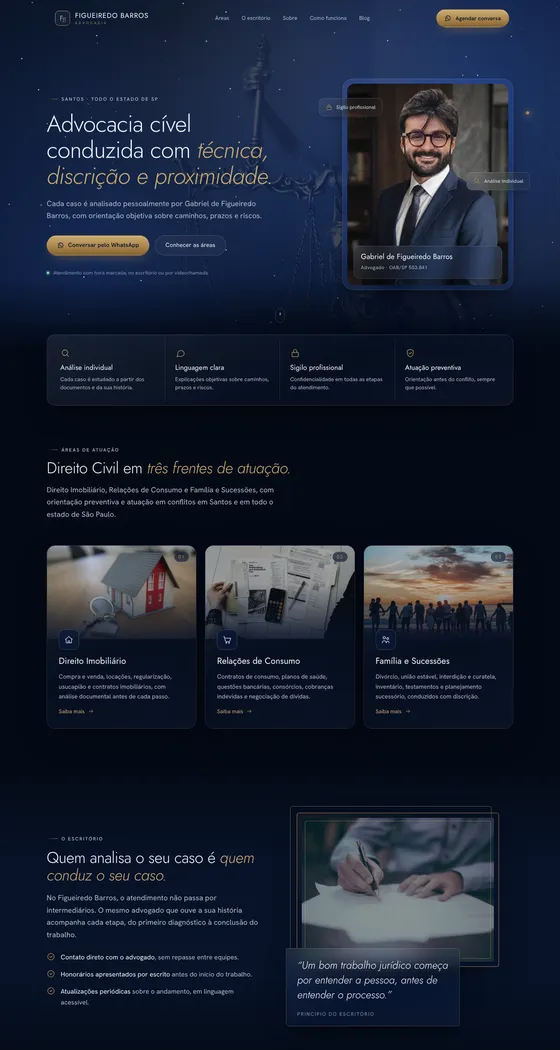
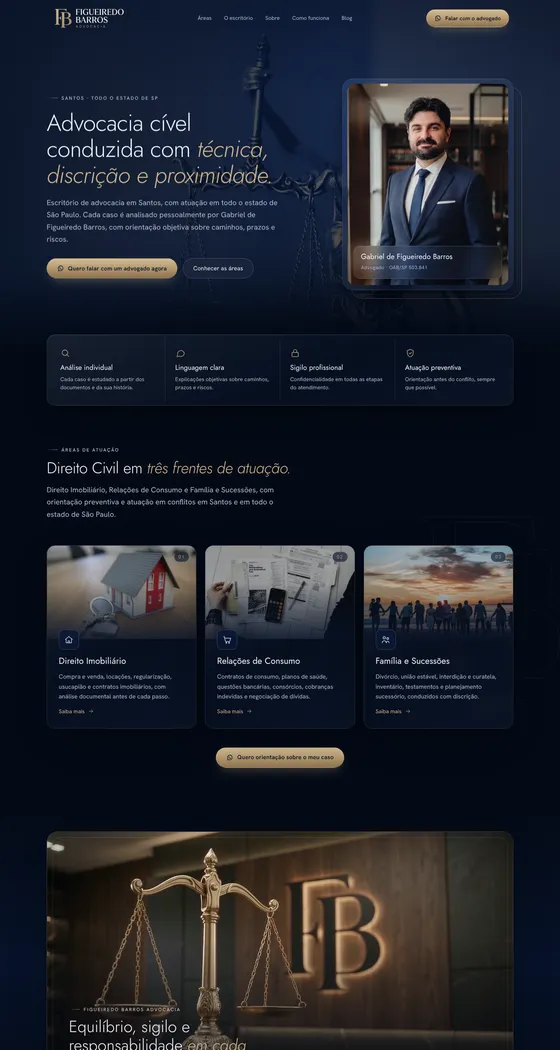
Portfólio: capa nova do Figueiredo Barros
Claude-Session: https://claude.ai/code/session_01KHwX47PnUnpH9iLpKtAAzS

diff --git a/index.html b/index.html
@@ -85,7 +85,7 @@
     <div class="hd pfh rv"><div><span class="eb">Portfólio</span><h2 id="t-pf">Sites e landing pages <em class="g">no ar</em></h2><p>Landing pages e sites que a CProject Lab desenvolveu para negócios de segmentos diferentes. Arraste para ver mais projetos e abra cada site para navegar.</p></div>
       <div class="pfnav"><button type="button" class="pfb" data-dir="-1" aria-label="Projeto anterior"><svg viewBox="0 0 24 24" fill="none" stroke="currentColor" stroke-width="2" stroke-linecap="round" aria-hidden="true"><path d="M19 12H5M11 6l-6 6 6 6"/></svg></button><button type="button" class="pfb" data-dir="1" aria-label="Próximo projeto"><svg viewBox="0 0 24 24" fill="none" stroke="currentColor" stroke-width="2" stroke-linecap="round" aria-hidden="true"><path d="M5 12h14M13 6l6 6-6 6"/></svg></button></div></div>
   </div>
-  <div class="pfw rv"><ul class="pft" id="pft" aria-label="Projetos do portfólio"><li class="pf"><a href="https://gelomac.com.br/" target="_blank" rel="noopener" aria-label="Gelomac: abrir o site em nova aba"><div class="shot"><div class="bar"><i></i><i></i><i></i><span>gelomac.com.br</span></div><div class="vp"><img src="/assets/portfolio/pf-gelomac-560.webp" srcset="/assets/portfolio/pf-gelomac-560.webp 560w, /assets/portfolio/pf-gelomac.webp 960w" sizes="(max-width:640px) 84vw, 560px" width="560" height="1050" loading="lazy" decoding="async" alt="Página inicial do site Gelomac"></div></div><div class="pfm"><div><h3>Gelomac</h3><p>Climatização comercial e industrial · Santos, SP</p></div><span class="go" aria-hidden="true">↗</span></div><div class="tags"><span>Site com páginas de serviço</span><span>SEO local</span><span>Orçamento pelo WhatsApp</span></div></a></li><li class="pf"><a href="https://drc-compressores.vercel.app/" target="_blank" rel="noopener" aria-label="DRC Compressores: abrir o site em nova aba"><div class="shot"><div class="bar"><i></i><i></i><i></i><span>drc-compressores.vercel.app</span></div><div class="vp"><img src="/assets/portfolio/pf-drc-560.webp" srcset="/assets/portfolio/pf-drc-560.webp 560w, /assets/portfolio/pf-drc.webp 960w" sizes="(max-width:640px) 84vw, 560px" width="560" height="1050" loading="lazy" decoding="async" alt="Página inicial do site DRC Compressores"></div></div><div class="pfm"><div><h3>DRC Compressores</h3><p>Recondicionamento de compressores · Santos, SP</p></div><span class="go" aria-hidden="true">↗</span></div><div class="tags"><span>Landing page</span><span>Catálogo de marcas</span><span>WhatsApp</span></div></a></li><li class="pf"><a href="https://figueiredo-barros.vercel.app/" target="_blank" rel="noopener" aria-label="Figueiredo Barros Advocacia: abrir o site em nova aba"><div class="shot"><div class="bar"><i></i><i></i><i></i><span>figueiredo-barros.vercel.app</span></div><div class="vp"><img src="/assets/portfolio/pf-figueiredo-560.webp" srcset="/assets/portfolio/pf-figueiredo-560.webp 560w, /assets/portfolio/pf-figueiredo.webp 960w" sizes="(max-width:640px) 84vw, 560px" width="560" height="1050" loading="lazy" decoding="async" alt="Página inicial do site Figueiredo Barros Advocacia"></div></div><div class="pfm"><div><h3>Figueiredo Barros Advocacia</h3><p>Advocacia · Santos e estado de SP</p></div><span class="go" aria-hidden="true">↗</span></div><div class="tags"><span>Site institucional</span><span>Áreas de atuação</span><span>Contato</span></div></a></li><li class="pf"><a href="https://bonomi-almeida.vercel.app/" target="_blank" rel="noopener" aria-label="Bonomi Almeida: abrir o site em nova aba"><div class="shot"><div class="bar"><i></i><i></i><i></i><span>bonomi-almeida.vercel.app</span></div><div class="vp"><img src="/assets/portfolio/pf-bonomi-560.webp" srcset="/assets/portfolio/pf-bonomi-560.webp 560w, /assets/portfolio/pf-bonomi.webp 960w" sizes="(max-width:640px) 84vw, 560px" width="560" height="1050" loading="lazy" decoding="async" alt="Página inicial do site Bonomi Almeida"></div></div><div class="pfm"><div><h3>Bonomi Almeida</h3><p>Advocacia · Estado de São Paulo</p></div><span class="go" aria-hidden="true">↗</span></div><div class="tags"><span>Site institucional</span><span>Áreas de atuação</span><span>Contato</span></div></a></li></ul></div>
+  <div class="pfw rv"><ul class="pft" id="pft" aria-label="Projetos do portfólio"><li class="pf"><a href="https://gelomac.com.br/" target="_blank" rel="noopener" aria-label="Gelomac: abrir o site em nova aba"><div class="shot"><div class="bar"><i></i><i></i><i></i><span>gelomac.com.br</span></div><div class="vp"><img src="/assets/portfolio/pf-gelomac-560.webp" srcset="/assets/portfolio/pf-gelomac-560.webp 560w, /assets/portfolio/pf-gelomac.webp 960w" sizes="(max-width:640px) 84vw, 560px" width="560" height="1050" loading="lazy" decoding="async" alt="Página inicial do site Gelomac"></div></div><div class="pfm"><div><h3>Gelomac</h3><p>Climatização comercial e industrial · Santos, SP</p></div><span class="go" aria-hidden="true">↗</span></div><div class="tags"><span>Site com páginas de serviço</span><span>SEO local</span><span>Orçamento pelo WhatsApp</span></div></a></li><li class="pf"><a href="https://drc-compressores.vercel.app/" target="_blank" rel="noopener" aria-label="DRC Compressores: abrir o site em nova aba"><div class="shot"><div class="bar"><i></i><i></i><i></i><span>drc-compressores.vercel.app</span></div><div class="vp"><img src="/assets/portfolio/pf-drc-560.webp" srcset="/assets/portfolio/pf-drc-560.webp 560w, /assets/portfolio/pf-drc.webp 960w" sizes="(max-width:640px) 84vw, 560px" width="560" height="1050" loading="lazy" decoding="async" alt="Página inicial do site DRC Compressores"></div></div><div class="pfm"><div><h3>DRC Compressores</h3><p>Recondicionamento de compressores · Santos, SP</p></div><span class="go" aria-hidden="true">↗</span></div><div class="tags"><span>Landing page</span><span>Catálogo de marcas</span><span>WhatsApp</span></div></a></li><li class="pf"><a href="https://figueiredo-barros.vercel.app/" target="_blank" rel="noopener" aria-label="Figueiredo Barros Advocacia: abrir o site em nova aba"><div class="shot"><div class="bar"><i></i><i></i><i></i><span>figueiredo-barros.vercel.app</span></div><div class="vp"><img src="/assets/portfolio/pf-figueiredo-560.webp?v=2" srcset="/assets/portfolio/pf-figueiredo-560.webp?v=2 560w, /assets/portfolio/pf-figueiredo.webp?v=2 960w" sizes="(max-width:640px) 84vw, 560px" width="560" height="1050" loading="lazy" decoding="async" alt="Página inicial do site Figueiredo Barros Advocacia"></div></div><div class="pfm"><div><h3>Figueiredo Barros Advocacia</h3><p>Advocacia · Santos e estado de SP</p></div><span class="go" aria-hidden="true">↗</span></div><div class="tags"><span>Site institucional</span><span>Áreas de atuação</span><span>Contato</span></div></a></li><li class="pf"><a href="https://bonomi-almeida.vercel.app/" target="_blank" rel="noopener" aria-label="Bonomi Almeida: abrir o site em nova aba"><div class="shot"><div class="bar"><i></i><i></i><i></i><span>bonomi-almeida.vercel.app</span></div><div class="vp"><img src="/assets/portfolio/pf-bonomi-560.webp" srcset="/assets/portfolio/pf-bonomi-560.webp 560w, /assets/portfolio/pf-bonomi.webp 960w" sizes="(max-width:640px) 84vw, 560px" width="560" height="1050" loading="lazy" decoding="async" alt="Página inicial do site Bonomi Almeida"></div></div><div class="pfm"><div><h3>Bonomi Almeida</h3><p>Advocacia · Estado de São Paulo</p></div><span class="go" aria-hidden="true">↗</span></div><div class="tags"><span>Site institucional</span><span>Áreas de atuação</span><span>Contato</span></div></a></li></ul></div>
   <div class="in"><div class="pfp" aria-hidden="true"><i id="pfbar"></i></div></div>
 </section>
 

diff --git a/sites-e-landing-pages/index.html b/sites-e-landing-pages/index.html
@@ -56,7 +56,7 @@
     <div class="hd pfh rv"><div><span class="eb">Portfólio</span><h2 id="t-pf">Sites e landing pages <em class="g">no ar</em></h2><p>Landing pages e sites que a CProject Lab desenvolveu para negócios de segmentos diferentes. Arraste para ver mais projetos e abra cada site para navegar.</p></div>
       <div class="pfnav"><button type="button" class="pfb" data-dir="-1" aria-label="Projeto anterior"><svg viewBox="0 0 24 24" fill="none" stroke="currentColor" stroke-width="2" stroke-linecap="round" aria-hidden="true"><path d="M19 12H5M11 6l-6 6 6 6"/></svg></button><button type="button" class="pfb" data-dir="1" aria-label="Próximo projeto"><svg viewBox="0 0 24 24" fill="none" stroke="currentColor" stroke-width="2" stroke-linecap="round" aria-hidden="true"><path d="M5 12h14M13 6l6 6-6 6"/></svg></button></div></div>
   </div>
-  <div class="pfw rv"><ul class="pft" id="pft" aria-label="Projetos do portfólio"><li class="pf"><a href="https://gelomac.com.br/" target="_blank" rel="noopener" aria-label="Gelomac: abrir o site em nova aba"><div class="shot"><div class="bar"><i></i><i></i><i></i><span>gelomac.com.br</span></div><div class="vp"><img src="/assets/portfolio/pf-gelomac-560.webp" srcset="/assets/portfolio/pf-gelomac-560.webp 560w, /assets/portfolio/pf-gelomac.webp 960w" sizes="(max-width:640px) 84vw, 560px" width="560" height="1050" loading="lazy" decoding="async" alt="Página inicial do site Gelomac"></div></div><div class="pfm"><div><h3>Gelomac</h3><p>Climatização comercial e industrial · Santos, SP</p></div><span class="go" aria-hidden="true">↗</span></div><div class="tags"><span>Site com páginas de serviço</span><span>SEO local</span><span>Orçamento pelo WhatsApp</span></div></a></li><li class="pf"><a href="https://drc-compressores.vercel.app/" target="_blank" rel="noopener" aria-label="DRC Compressores: abrir o site em nova aba"><div class="shot"><div class="bar"><i></i><i></i><i></i><span>drc-compressores.vercel.app</span></div><div class="vp"><img src="/assets/portfolio/pf-drc-560.webp" srcset="/assets/portfolio/pf-drc-560.webp 560w, /assets/portfolio/pf-drc.webp 960w" sizes="(max-width:640px) 84vw, 560px" width="560" height="1050" loading="lazy" decoding="async" alt="Página inicial do site DRC Compressores"></div></div><div class="pfm"><div><h3>DRC Compressores</h3><p>Recondicionamento de compressores · Santos, SP</p></div><span class="go" aria-hidden="true">↗</span></div><div class="tags"><span>Landing page</span><span>Catálogo de marcas</span><span>WhatsApp</span></div></a></li><li class="pf"><a href="https://figueiredo-barros.vercel.app/" target="_blank" rel="noopener" aria-label="Figueiredo Barros Advocacia: abrir o site em nova aba"><div class="shot"><div class="bar"><i></i><i></i><i></i><span>figueiredo-barros.vercel.app</span></div><div class="vp"><img src="/assets/portfolio/pf-figueiredo-560.webp" srcset="/assets/portfolio/pf-figueiredo-560.webp 560w, /assets/portfolio/pf-figueiredo.webp 960w" sizes="(max-width:640px) 84vw, 560px" width="560" height="1050" loading="lazy" decoding="async" alt="Página inicial do site Figueiredo Barros Advocacia"></div></div><div class="pfm"><div><h3>Figueiredo Barros Advocacia</h3><p>Advocacia · Santos e estado de SP</p></div><span class="go" aria-hidden="true">↗</span></div><div class="tags"><span>Site institucional</span><span>Áreas de atuação</span><span>Contato</span></div></a></li><li class="pf"><a href="https://bonomi-almeida.vercel.app/" target="_blank" rel="noopener" aria-label="Bonomi Almeida: abrir o site em nova aba"><div class="shot"><div class="bar"><i></i><i></i><i></i><span>bonomi-almeida.vercel.app</span></div><div class="vp"><img src="/assets/portfolio/pf-bonomi-560.webp" srcset="/assets/portfolio/pf-bonomi-560.webp 560w, /assets/portfolio/pf-bonomi.webp 960w" sizes="(max-width:640px) 84vw, 560px" width="560" height="1050" loading="lazy" decoding="async" alt="Página inicial do site Bonomi Almeida"></div></div><div class="pfm"><div><h3>Bonomi Almeida</h3><p>Advocacia · Estado de São Paulo</p></div><span class="go" aria-hidden="true">↗</span></div><div class="tags"><span>Site institucional</span><span>Áreas de atuação</span><span>Contato</span></div></a></li></ul></div>
+  <div class="pfw rv"><ul class="pft" id="pft" aria-label="Projetos do portfólio"><li class="pf"><a href="https://gelomac.com.br/" target="_blank" rel="noopener" aria-label="Gelomac: abrir o site em nova aba"><div class="shot"><div class="bar"><i></i><i></i><i></i><span>gelomac.com.br</span></div><div class="vp"><img src="/assets/portfolio/pf-gelomac-560.webp" srcset="/assets/portfolio/pf-gelomac-560.webp 560w, /assets/portfolio/pf-gelomac.webp 960w" sizes="(max-width:640px) 84vw, 560px" width="560" height="1050" loading="lazy" decoding="async" alt="Página inicial do site Gelomac"></div></div><div class="pfm"><div><h3>Gelomac</h3><p>Climatização comercial e industrial · Santos, SP</p></div><span class="go" aria-hidden="true">↗</span></div><div class="tags"><span>Site com páginas de serviço</span><span>SEO local</span><span>Orçamento pelo WhatsApp</span></div></a></li><li class="pf"><a href="https://drc-compressores.vercel.app/" target="_blank" rel="noopener" aria-label="DRC Compressores: abrir o site em nova aba"><div class="shot"><div class="bar"><i></i><i></i><i></i><span>drc-compressores.vercel.app</span></div><div class="vp"><img src="/assets/portfolio/pf-drc-560.webp" srcset="/assets/portfolio/pf-drc-560.webp 560w, /assets/portfolio/pf-drc.webp 960w" sizes="(max-width:640px) 84vw, 560px" width="560" height="1050" loading="lazy" decoding="async" alt="Página inicial do site DRC Compressores"></div></div><div class="pfm"><div><h3>DRC Compressores</h3><p>Recondicionamento de compressores · Santos, SP</p></div><span class="go" aria-hidden="true">↗</span></div><div class="tags"><span>Landing page</span><span>Catálogo de marcas</span><span>WhatsApp</span></div></a></li><li class="pf"><a href="https://figueiredo-barros.vercel.app/" target="_blank" rel="noopener" aria-label="Figueiredo Barros Advocacia: abrir o site em nova aba"><div class="shot"><div class="bar"><i></i><i></i><i></i><span>figueiredo-barros.vercel.app</span></div><div class="vp"><img src="/assets/portfolio/pf-figueiredo-560.webp?v=2" srcset="/assets/portfolio/pf-figueiredo-560.webp?v=2 560w, /assets/portfolio/pf-figueiredo.webp?v=2 960w" sizes="(max-width:640px) 84vw, 560px" width="560" height="1050" loading="lazy" decoding="async" alt="Página inicial do site Figueiredo Barros Advocacia"></div></div><div class="pfm"><div><h3>Figueiredo Barros Advocacia</h3><p>Advocacia · Santos e estado de SP</p></div><span class="go" aria-hidden="true">↗</span></div><div class="tags"><span>Site institucional</span><span>Áreas de atuação</span><span>Contato</span></div></a></li><li class="pf"><a href="https://bonomi-almeida.vercel.app/" target="_blank" rel="noopener" aria-label="Bonomi Almeida: abrir o site em nova aba"><div class="shot"><div class="bar"><i></i><i></i><i></i><span>bonomi-almeida.vercel.app</span></div><div class="vp"><img src="/assets/portfolio/pf-bonomi-560.webp" srcset="/assets/portfolio/pf-bonomi-560.webp 560w, /assets/portfolio/pf-bonomi.webp 960w" sizes="(max-width:640px) 84vw, 560px" width="560" height="1050" loading="lazy" decoding="async" alt="Página inicial do site Bonomi Almeida"></div></div><div class="pfm"><div><h3>Bonomi Almeida</h3><p>Advocacia · Estado de São Paulo</p></div><span class="go" aria-hidden="true">↗</span></div><div class="tags"><span>Site institucional</span><span>Áreas de atuação</span><span>Contato</span></div></a></li></ul></div>
   <div class="in"><div class="pfp" aria-hidden="true"><i id="pfbar"></i></div></div>
 </section>
 

diff --git a/_tools/partes/portfolio.html b/_tools/partes/portfolio.html
@@ -3,6 +3,6 @@
     <div class="hd pfh rv"><div><span class="eb">Portfólio</span><h2 id="t-pf">Sites e landing pages <em class="g">no ar</em></h2><p>Landing pages e sites que a CProject Lab desenvolveu para negócios de segmentos diferentes. Arraste para ver mais projetos e abra cada site para navegar.</p></div>
       <div class="pfnav"><button type="button" class="pfb" data-dir="-1" aria-label="Projeto anterior"><svg viewBox="0 0 24 24" fill="none" stroke="currentColor" stroke-width="2" stroke-linecap="round" aria-hidden="true"><path d="M19 12H5M11 6l-6 6 6 6"/></svg></button><button type="button" class="pfb" data-dir="1" aria-label="Próximo projeto"><svg viewBox="0 0 24 24" fill="none" stroke="currentColor" stroke-width="2" stroke-linecap="round" aria-hidden="true"><path d="M5 12h14M13 6l6 6-6 6"/></svg></button></div></div>
   </div>
-  <div class="pfw rv"><ul class="pft" id="pft" aria-label="Projetos do portfólio"><li class="pf"><a href="https://gelomac.com.br/" target="_blank" rel="noopener" aria-label="Gelomac: abrir o site em nova aba"><div class="shot"><div class="bar"><i></i><i></i><i></i><span>gelomac.com.br</span></div><div class="vp"><img src="/assets/portfolio/pf-gelomac-560.webp" srcset="/assets/portfolio/pf-gelomac-560.webp 560w, /assets/portfolio/pf-gelomac.webp 960w" sizes="(max-width:640px) 84vw, 560px" width="560" height="1050" loading="lazy" decoding="async" alt="Página inicial do site Gelomac"></div></div><div class="pfm"><div><h3>Gelomac</h3><p>Climatização comercial e industrial · Santos, SP</p></div><span class="go" aria-hidden="true">↗</span></div><div class="tags"><span>Site com páginas de serviço</span><span>SEO local</span><span>Orçamento pelo WhatsApp</span></div></a></li><li class="pf"><a href="https://drc-compressores.vercel.app/" target="_blank" rel="noopener" aria-label="DRC Compressores: abrir o site em nova aba"><div class="shot"><div class="bar"><i></i><i></i><i></i><span>drc-compressores.vercel.app</span></div><div class="vp"><img src="/assets/portfolio/pf-drc-560.webp" srcset="/assets/portfolio/pf-drc-560.webp 560w, /assets/portfolio/pf-drc.webp 960w" sizes="(max-width:640px) 84vw, 560px" width="560" height="1050" loading="lazy" decoding="async" alt="Página inicial do site DRC Compressores"></div></div><div class="pfm"><div><h3>DRC Compressores</h3><p>Recondicionamento de compressores · Santos, SP</p></div><span class="go" aria-hidden="true">↗</span></div><div class="tags"><span>Landing page</span><span>Catálogo de marcas</span><span>WhatsApp</span></div></a></li><li class="pf"><a href="https://figueiredo-barros.vercel.app/" target="_blank" rel="noopener" aria-label="Figueiredo Barros Advocacia: abrir o site em nova aba"><div class="shot"><div class="bar"><i></i><i></i><i></i><span>figueiredo-barros.vercel.app</span></div><div class="vp"><img src="/assets/portfolio/pf-figueiredo-560.webp" srcset="/assets/portfolio/pf-figueiredo-560.webp 560w, /assets/portfolio/pf-figueiredo.webp 960w" sizes="(max-width:640px) 84vw, 560px" width="560" height="1050" loading="lazy" decoding="async" alt="Página inicial do site Figueiredo Barros Advocacia"></div></div><div class="pfm"><div><h3>Figueiredo Barros Advocacia</h3><p>Advocacia · Santos e estado de SP</p></div><span class="go" aria-hidden="true">↗</span></div><div class="tags"><span>Site institucional</span><span>Áreas de atuação</span><span>Contato</span></div></a></li><li class="pf"><a href="https://bonomi-almeida.vercel.app/" target="_blank" rel="noopener" aria-label="Bonomi Almeida: abrir o site em nova aba"><div class="shot"><div class="bar"><i></i><i></i><i></i><span>bonomi-almeida.vercel.app</span></div><div class="vp"><img src="/assets/portfolio/pf-bonomi-560.webp" srcset="/assets/portfolio/pf-bonomi-560.webp 560w, /assets/portfolio/pf-bonomi.webp 960w" sizes="(max-width:640px) 84vw, 560px" width="560" height="1050" loading="lazy" decoding="async" alt="Página inicial do site Bonomi Almeida"></div></div><div class="pfm"><div><h3>Bonomi Almeida</h3><p>Advocacia · Estado de São Paulo</p></div><span class="go" aria-hidden="true">↗</span></div><div class="tags"><span>Site institucional</span><span>Áreas de atuação</span><span>Contato</span></div></a></li></ul></div>
+  <div class="pfw rv"><ul class="pft" id="pft" aria-label="Projetos do portfólio"><li class="pf"><a href="https://gelomac.com.br/" target="_blank" rel="noopener" aria-label="Gelomac: abrir o site em nova aba"><div class="shot"><div class="bar"><i></i><i></i><i></i><span>gelomac.com.br</span></div><div class="vp"><img src="/assets/portfolio/pf-gelomac-560.webp" srcset="/assets/portfolio/pf-gelomac-560.webp 560w, /assets/portfolio/pf-gelomac.webp 960w" sizes="(max-width:640px) 84vw, 560px" width="560" height="1050" loading="lazy" decoding="async" alt="Página inicial do site Gelomac"></div></div><div class="pfm"><div><h3>Gelomac</h3><p>Climatização comercial e industrial · Santos, SP</p></div><span class="go" aria-hidden="true">↗</span></div><div class="tags"><span>Site com páginas de serviço</span><span>SEO local</span><span>Orçamento pelo WhatsApp</span></div></a></li><li class="pf"><a href="https://drc-compressores.vercel.app/" target="_blank" rel="noopener" aria-label="DRC Compressores: abrir o site em nova aba"><div class="shot"><div class="bar"><i></i><i></i><i></i><span>drc-compressores.vercel.app</span></div><div class="vp"><img src="/assets/portfolio/pf-drc-560.webp" srcset="/assets/portfolio/pf-drc-560.webp 560w, /assets/portfolio/pf-drc.webp 960w" sizes="(max-width:640px) 84vw, 560px" width="560" height="1050" loading="lazy" decoding="async" alt="Página inicial do site DRC Compressores"></div></div><div class="pfm"><div><h3>DRC Compressores</h3><p>Recondicionamento de compressores · Santos, SP</p></div><span class="go" aria-hidden="true">↗</span></div><div class="tags"><span>Landing page</span><span>Catálogo de marcas</span><span>WhatsApp</span></div></a></li><li class="pf"><a href="https://figueiredo-barros.vercel.app/" target="_blank" rel="noopener" aria-label="Figueiredo Barros Advocacia: abrir o site em nova aba"><div class="shot"><div class="bar"><i></i><i></i><i></i><span>figueiredo-barros.vercel.app</span></div><div class="vp"><img src="/assets/portfolio/pf-figueiredo-560.webp?v=2" srcset="/assets/portfolio/pf-figueiredo-560.webp?v=2 560w, /assets/portfolio/pf-figueiredo.webp?v=2 960w" sizes="(max-width:640px) 84vw, 560px" width="560" height="1050" loading="lazy" decoding="async" alt="Página inicial do site Figueiredo Barros Advocacia"></div></div><div class="pfm"><div><h3>Figueiredo Barros Advocacia</h3><p>Advocacia · Santos e estado de SP</p></div><span class="go" aria-hidden="true">↗</span></div><div class="tags"><span>Site institucional</span><span>Áreas de atuação</span><span>Contato</span></div></a></li><li class="pf"><a href="https://bonomi-almeida.vercel.app/" target="_blank" rel="noopener" aria-label="Bonomi Almeida: abrir o site em nova aba"><div class="shot"><div class="bar"><i></i><i></i><i></i><span>bonomi-almeida.vercel.app</span></div><div class="vp"><img src="/assets/portfolio/pf-bonomi-560.webp" srcset="/assets/portfolio/pf-bonomi-560.webp 560w, /assets/portfolio/pf-bonomi.webp 960w" sizes="(max-width:640px) 84vw, 560px" width="560" height="1050" loading="lazy" decoding="async" alt="Página inicial do site Bonomi Almeida"></div></div><div class="pfm"><div><h3>Bonomi Almeida</h3><p>Advocacia · Estado de São Paulo</p></div><span class="go" aria-hidden="true">↗</span></div><div class="tags"><span>Site institucional</span><span>Áreas de atuação</span><span>Contato</span></div></a></li></ul></div>
   <div class="in"><div class="pfp" aria-hidden="true"><i id="pfbar"></i></div></div>
 </section>
